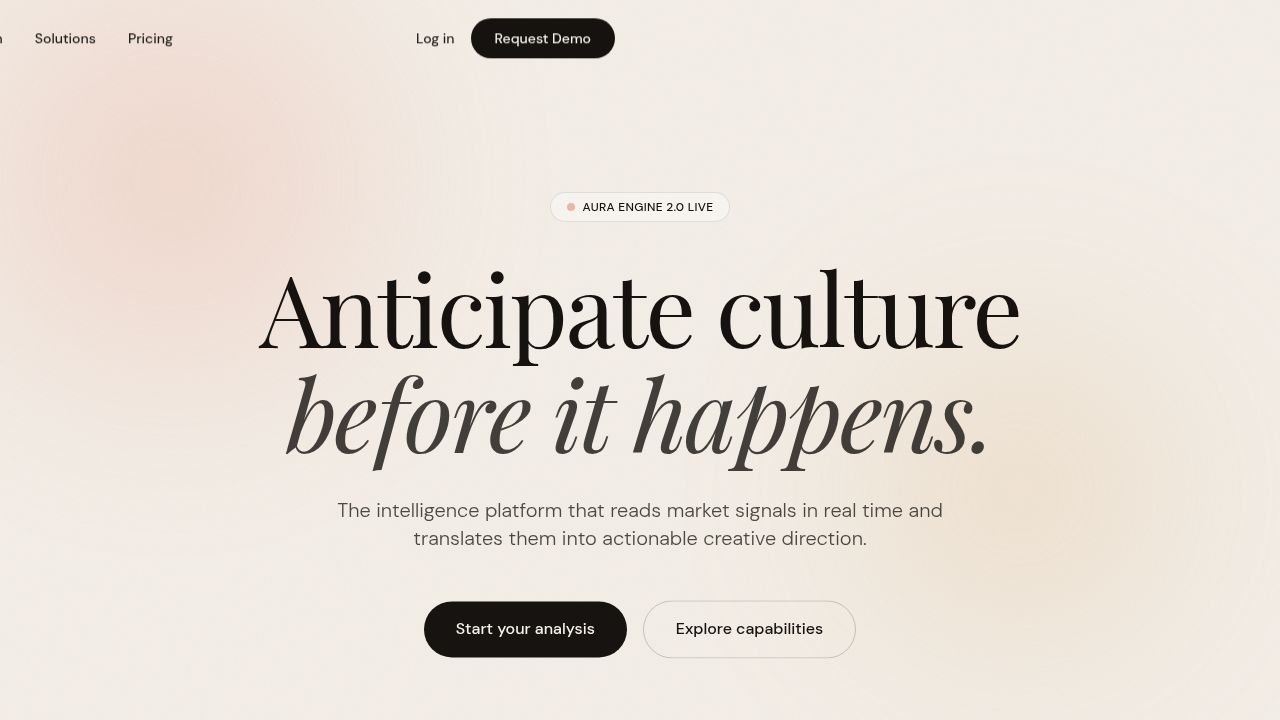
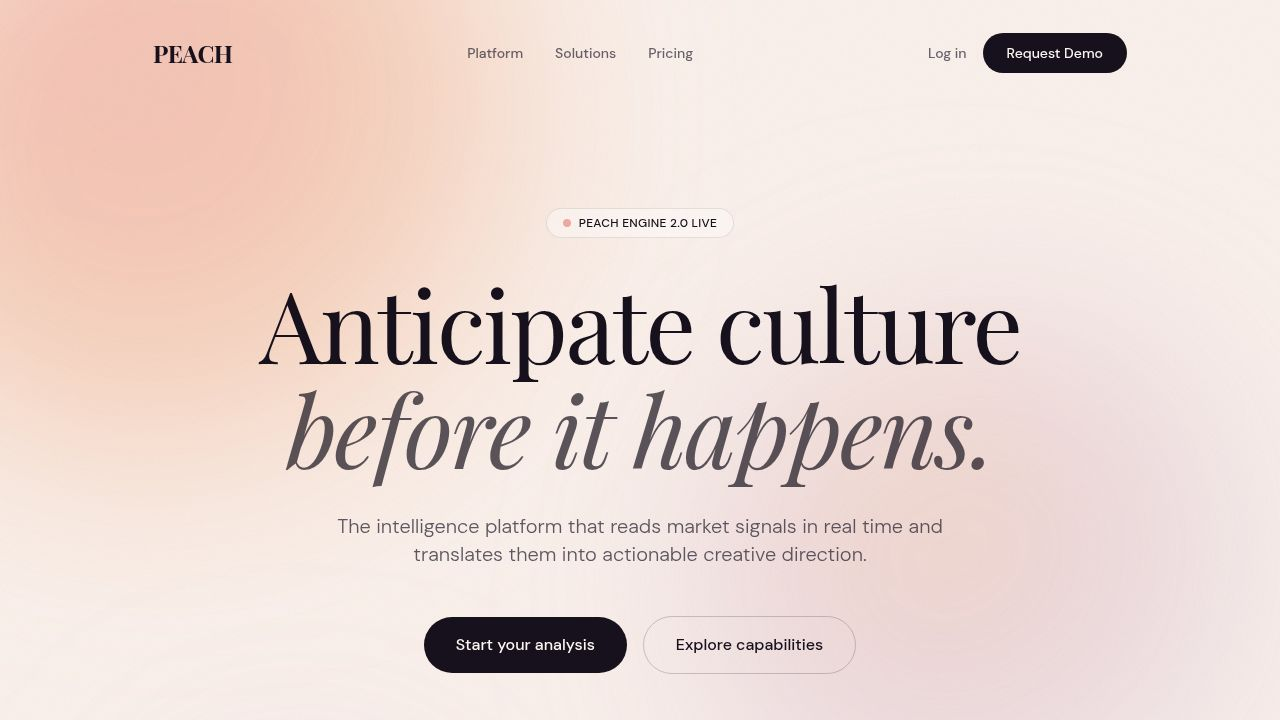
Adjust spacing and color palette for a more cohesive visual experience
Update spacing between hero elements, refine color variables in CSS, and adjust wave component colors for better visual harmony.

Replit-Commit-Author: Agent
Replit-Commit-Session-Id: 44162226-3a26-4f93-ab2b-f462cb15a33e
Replit-Commit-Checkpoint-Type: full_checkpoint
Replit-Commit-Event-Id: 2968bd2b-febb-4224-8a06-cd17343ffa2c
Replit-Commit-Screenshot-Url: https://storage.googleapis.com/screenshot-production-us-central1/44851bb8-de09-4b7f-8e36-36dc34d9c745/44162226-3a26-4f93-ab2b-f462cb15a33e/eIEn1nD
Replit-Helium-Checkpoint-Created: true

diff --git a/artifacts/aura-landing/src/index.css b/artifacts/aura-landing/src/index.css
@@ -39,16 +39,33 @@
   --font-serif: 'Playfair Display', serif;
   --font-mono: ui-monospace, SFMono-Regular, Menlo, Monaco, Consolas, "Liberation Mono", "Courier New", monospace;
 
-  /* ── Orange · Red · Purple palette ── */
-  --color-aura-coral:         hsl(8 76% 64%);    /* warm red-coral    */
-  --color-aura-amber:         hsl(22 88% 68%);   /* light orange      */
-  --color-aura-sage:          hsl(272 40% 66%);  /* soft purple       */
-  --color-aura-rose:          hsl(288 34% 72%);  /* light lavender    */
-  --color-aura-charcoal:      hsl(264 22% 10%);  /* deep purple-dark  */
-  --color-aura-charcoal-soft: hsl(260 16% 17%);  /* mid purple-dark   */
-  --color-aura-cream-100:     hsl(30 80% 97%);   /* lightest vanilla  */
-  --color-aura-cream-200:     hsl(24 68% 94%);   /* warm light orange */
-  --color-aura-cream-300:     hsl(16 62% 88%);   /* orange-pink cream */
+  /* ═══════════════════════════════════════════════════
+     Palette: warm orange-cream · red-coral · soft purple
+     All values tuned to blend on hsl(22 60% 95%) base.
+     ═══════════════════════════════════════════════════ */
+
+  /* Accent — warm red-coral (buttons, dots, highlights) */
+  --color-aura-coral:         hsl(6 72% 62%);
+
+  /* Accent — light orange (blobs, tags, warm glows) */
+  --color-aura-amber:         hsl(24 82% 68%);
+
+  /* Accent — dusty soft purple (blobs, velocity tags) */
+  --color-aura-sage:          hsl(268 36% 65%);
+
+  /* Accent — muted lavender (secondary blobs) */
+  --color-aura-rose:          hsl(284 30% 70%);
+
+  /* Text/UI — very deep purple-black (readable on warm bg) */
+  --color-aura-charcoal:      hsl(270 28% 9%);
+
+  /* Text/UI — mid purple-dark for secondary text */
+  --color-aura-charcoal-soft: hsl(265 18% 17%);
+
+  /* Surfaces — graduated warm cream → vanilla */
+  --color-aura-cream-100:     hsl(32 75% 97%);   /* near-white vanilla   */
+  --color-aura-cream-200:     hsl(24 65% 94%);   /* warm light orange    */
+  --color-aura-cream-300:     hsl(18 58% 88%);   /* orange-pink cream    */
 
   --radius-sm: calc(var(--radius) - 4px);
   --radius-md: calc(var(--radius) - 2px);
@@ -58,60 +75,61 @@
 }
 
 :root {
-  --background:           24 68% 94%;   /* warm light orange-cream */
-  --foreground:           264 22% 10%;  /* deep purple-dark */
+  /* page background: warm orange-cream */
+  --background:           22 60% 95%;
+  --foreground:           270 28%  9%;
 
-  --card:                 30 80% 97%;
-  --card-foreground:      264 22% 10%;
-  --card-border:          16 62% 88%;
+  --card:                 32 75% 97%;
+  --card-foreground:      270 28%  9%;
+  --card-border:          18 58% 88%;
 
-  --popover:              30 80% 97%;
-  --popover-foreground:   264 22% 10%;
-  --popover-border:       16 62% 88%;
+  --popover:              32 75% 97%;
+  --popover-foreground:   270 28%  9%;
+  --popover-border:       18 58% 88%;
 
-  --primary:              264 22% 10%;
-  --primary-foreground:   30 80% 97%;
+  --primary:              270 28%  9%;
+  --primary-foreground:   32 75% 97%;
 
-  --secondary:            30 80% 97%;
-  --secondary-foreground: 264 22% 10%;
+  --secondary:            32 75% 97%;
+  --secondary-foreground: 270 28%  9%;
 
-  --muted:                16 62% 88%;
-  --muted-foreground:     260 16% 17%;
+  --muted:                18 58% 88%;
+  --muted-foreground:     265 18% 17%;
 
-  --accent:               16 62% 88%;
-  --accent-foreground:    264 22% 10%;
+  --accent:               18 58% 88%;
+  --accent-foreground:    270 28%  9%;
 
   --destructive:          0 84.2% 60.2%;
   --destructive-foreground: 0 0% 98%;
 
-  --border: 16 62% 88%;
-  --input:  16 62% 88%;
-  --ring:   264 22% 10%;
+  --border: 18 58% 88%;
+  --input:  18 58% 88%;
+  --ring:   270 28%  9%;
   --radius: 0.75rem;
 }
 
 .dark {
-  --background:           264 22% 10%;
-  --foreground:           24 68% 94%;
-  --card:                 260 16% 17%;
-  --card-foreground:      24 68% 94%;
-  --card-border:          264 22% 10%;
-  --popover:              260 16% 17%;
-  --popover-foreground:   24 68% 94%;
-  --popover-border:       264 22% 10%;
-  --primary:              24 68% 94%;
-  --primary-foreground:   264 22% 10%;
-  --secondary:            260 16% 17%;
-  --secondary-foreground: 24 68% 94%;
-  --muted:                260 16% 17%;
-  --muted-foreground:     16 62% 88%;
-  --accent:               260 16% 17%;
-  --accent-foreground:    24 68% 94%;
+  --background:           270 28%  9%;
+  --foreground:           22 60% 95%;
+  --card:                 265 18% 17%;
+  --card-foreground:      22 60% 95%;
+  --card-border:          270 28%  9%;
+  --popover:              265 18% 17%;
+  --popover-foreground:   22 60% 95%;
+  --popover-border:       270 28%  9%;
+  --primary:              22 60% 95%;
+  --primary-foreground:   270 28%  9%;
+  --secondary:            265 18% 17%;
+  --secondary-foreground: 22 60% 95%;
+  --muted:                265 18% 17%;
+  --muted-foreground:     18 58% 88%;
+  --accent:               265 18% 17%;
+  --accent-foreground:    22 60% 95%;
   --destructive:          0 62.8% 30.6%;
   --destructive-foreground: 0 0% 98%;
-  --border: 260 16% 17%;
-  --input:  260 16% 17%;
-  --ring:   24 68% 94%;
+  --border: 265 18% 17%;
+  --input:  265 18% 17%;
+  --ring:   22 60% 95%;
 }
 
 @layer base {

diff --git a/artifacts/aura-landing/src/components/HeroWaves.tsx b/artifacts/aura-landing/src/components/HeroWaves.tsx
@@ -3,19 +3,19 @@ import { motion } from "framer-motion";
 
 interface WaveLayer {
   amplitude: number;
-  freqCycles: number; // integer cycles across one tile
+  freqCycles: number; // integer cycles across one tile for seamless looping
   phase: number;
   yCenter: number;
   color: string;
-  speed: number; // seconds per full tile scroll
+  speed: number;
 }
 
 function buildPath(tileW: number, h: number, amp: number, cycles: number, phase: number, yCenter: number): string {
-  const steps = 240;
+  const steps = 280;
   const points: string[] = [];
   for (let i = 0; i <= steps; i++) {
     const x = (i / steps) * tileW * 2;
-    const t = (i / steps) * 2; // 0..2 → two tiles
+    const t = (i / steps) * 2; // 0..2 tiles
     const y = yCenter + amp * Math.sin(t * cycles * Math.PI * 2 + phase);
     points.push(`${x.toFixed(1)},${y.toFixed(1)}`);
   }
@@ -30,20 +30,29 @@ export function HeroWaves({ height = 300 }: HeroWavesProps) {
   const TILE = 1400;
   const H = height;
 
-  const layers = useMemo<WaveLayer[]>(() => [
-    // back — orange, slow
-    { amplitude: 36, freqCycles: 2, phase: 0,    yCenter: H * 0.42, color: "hsl(22 88% 68% / 0.28)", speed: 20 },
-    // mid-back — red, medium
-    { amplitude: 28, freqCycles: 3, phase: 1.1,  yCenter: H * 0.52, color: "hsl(8 76% 64% / 0.32)",  speed: 15 },
-    // mid-front — purple, slightly faster
-    { amplitude: 22, freqCycles: 4, phase: 2.3,  yCenter: H * 0.58, color: "hsl(272 40% 66% / 0.38)", speed: 11 },
-    // front — lavender, fast + tall coverage
-    { amplitude: 40, freqCycles: 2, phase: 0.5,  yCenter: H * 0.35, color: "hsl(288 34% 72% / 0.22)", speed: 25 },
-    // accent fill — deep red, anchors bottom
-    { amplitude: 16, freqCycles: 5, phase: 3.8,  yCenter: H * 0.68, color: "hsl(4 72% 58% / 0.25)",  speed: 8  },
-  ], [H]);
+  const layers = useMemo<WaveLayer[]>(
+    () => [
+      // backmost — wide orange, slowest
+      { amplitude: 38, freqCycles: 2, phase: 0,   yCenter: H * 0.38, color: "hsl(24 82% 68% / 0.22)", speed: 22 },
+      // mid-back — red-coral
+      { amplitude: 26, freqCycles: 3, phase: 1.0, yCenter: H * 0.50, color: "hsl(6 72% 62% / 0.28)",  speed: 16 },
+      // mid — soft purple
+      { amplitude: 20, freqCycles: 4, phase: 2.2, yCenter: H * 0.57, color: "hsl(268 36% 65% / 0.32)", speed: 12 },
+      // mid-front — lavender, wider swing
+      { amplitude: 44, freqCycles: 2, phase: 0.6, yCenter: H * 0.32, color: "hsl(284 30% 70% / 0.18)", speed: 28 },
+      // front accent — deep red, anchors bottom
+      { amplitude: 14, freqCycles: 5, phase: 3.7, yCenter: H * 0.66, color: "hsl(4 68% 56% / 0.22)",  speed: 9  },
+    ],
+    [H]
+  );
 
-  const paths = useMemo(() => layers.map((l) => buildPath(TILE, H, l.amplitude, l.freqCycles, l.phase, l.yCenter)), [layers, H]);
+  const paths = useMemo(
+    () => layers.map((l) => buildPath(TILE, H, l.amplitude, l.freqCycles, l.phase, l.yCenter)),
+    [layers, H]
+  );
+
+  /* page bg colour: hsl(22 60% 95%) ≈ #F8EDE0 */
+  const BG = "hsl(22, 60%, 95%)";
 
   return (
     <div
@@ -51,13 +60,13 @@ export function HeroWaves({ height = 300 }: HeroWavesProps) {
       style={{ height: H }}
       aria-hidden
     >
-      {/* soft background glow */}
+      {/* ambient colour washes blending with page bg */}
       <div
         className="absolute inset-0"
         style={{
           background: `
-            radial-gradient(ellipse 60% 70% at 30% 60%, hsl(22 88% 72% / 0.18) 0%, transparent 70%),
-            radial-gradient(ellipse 50% 60% at 75% 50%, hsl(272 40% 66% / 0.15) 0%, transparent 70%)
+            radial-gradient(ellipse 55% 65% at 28% 60%, hsl(24 82% 72% / 0.16) 0%, transparent 70%),
+            radial-gradient(ellipse 45% 55% at 76% 48%, hsl(268 36% 65% / 0.14) 0%, transparent 70%)
           `,
         }}
       />
@@ -76,20 +85,20 @@ export function HeroWaves({ height = 300 }: HeroWavesProps) {
           viewBox={`0 0 ${TILE * 2} ${H}`}
           preserveAspectRatio="none"
           animate={{ x: [0, -TILE] }}
-          transition={{
-            duration: layer.speed,
-            repeat: Infinity,
-            ease: "linear",
-          }}
+          transition={{ duration: layer.speed, repeat: Infinity, ease: "linear" }}
         >
           <path d={paths[i]} fill={layer.color} />
         </motion.svg>
       ))}
 
-      {/* top fade — blends into page bg */}
+      {/* top & bottom fades — seamlessly blends into page cream */}
       <div
-        className="absolute top-0 inset-x-0 h-20 pointer-events-none"
-        style={{ background: "linear-gradient(to bottom, hsl(24 68% 94%) 0%, transparent 100%)" }}
+        className="absolute top-0 inset-x-0 h-24 pointer-events-none"
+        style={{ background: `linear-gradient(to bottom, ${BG} 0%, transparent 100%)` }}
+      />
+      <div
+        className="absolute bottom-0 inset-x-0 h-16 pointer-events-none"
+        style={{ background: `linear-gradient(to top, ${BG} 0%, transparent 100%)` }}
       />
     </div>
   );

diff --git a/artifacts/aura-landing/src/pages/Home.tsx b/artifacts/aura-landing/src/pages/Home.tsx
@@ -107,7 +107,7 @@ export default function Home() {
             className="relative w-full max-w-4xl"
           >
             {/* Metric cards sit above the wave field */}
-            <div className="relative z-10 flex items-end justify-between px-4 mb-2 pointer-events-none">
+            <div className="relative z-10 flex items-end justify-between px-4 mb-8 pointer-events-none">
               <MetricCard label="Signal Accuracy" value="94.2%" trend="+2.4%" delay={0.7} />
               <MetricCard label="Brands Analyzed" value="2,840" delay={0.8} className="hidden sm:flex" />
               <MetricCard label="Trends Detected" value="1,247" trend="+127" delay={0.9} />
@@ -132,7 +132,7 @@ export default function Home() {
       </section>
 
       {/* ── Marquee ── */}
-      <section className="py-12 border-y border-aura-charcoal/5 overflow-hidden bg-aura-cream-100/60 backdrop-blur-sm relative z-10 mt-16">
+      <section className="py-12 border-y border-aura-charcoal/5 overflow-hidden bg-aura-cream-100/60 backdrop-blur-sm relative z-10 mt-32">
         <div className="flex w-fit animate-[marquee_44s_linear_infinite] opacity-55 mix-blend-multiply">
           {Array.from({ length: 8 }).flatMap((_, i) =>
             MARQUEE_ITEMS.map((item, j) => (